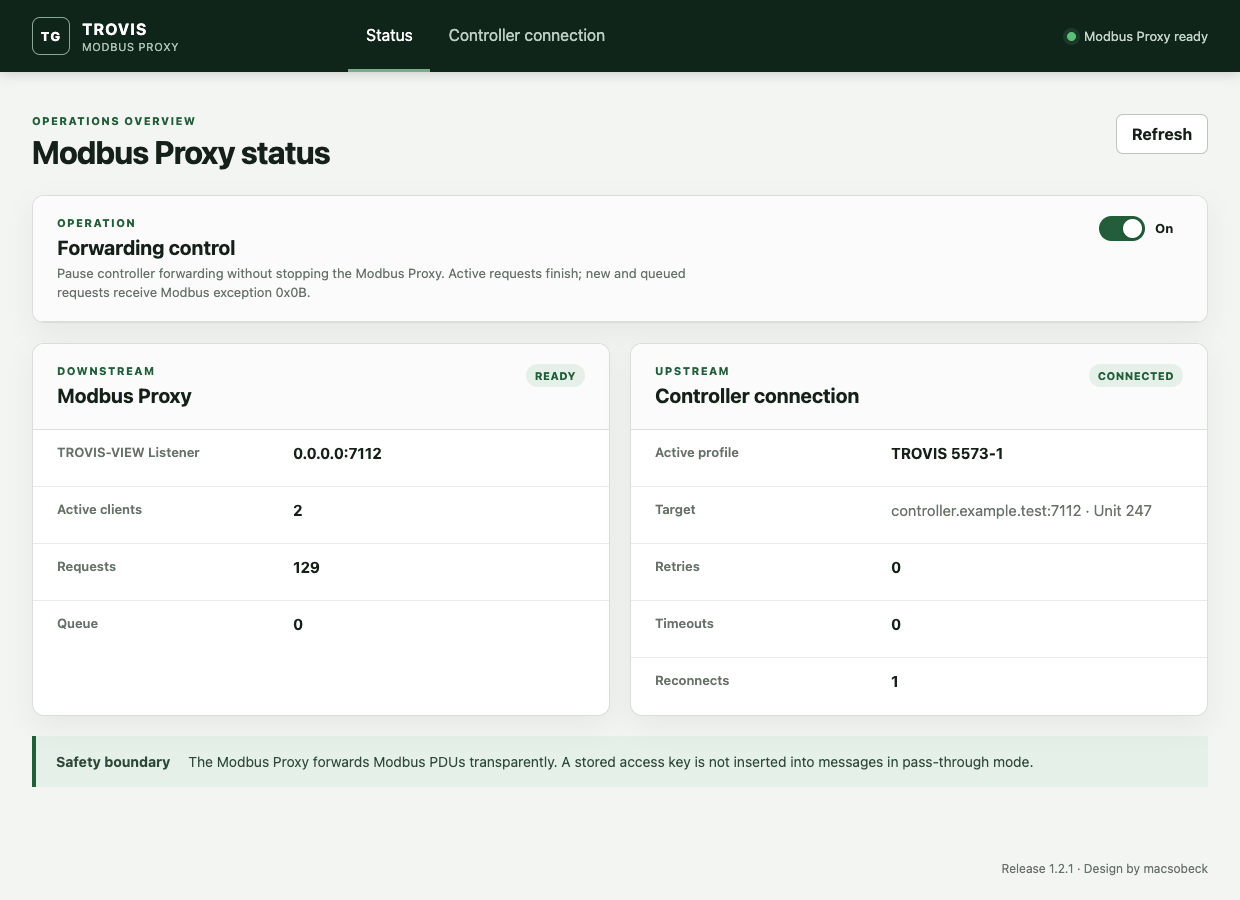
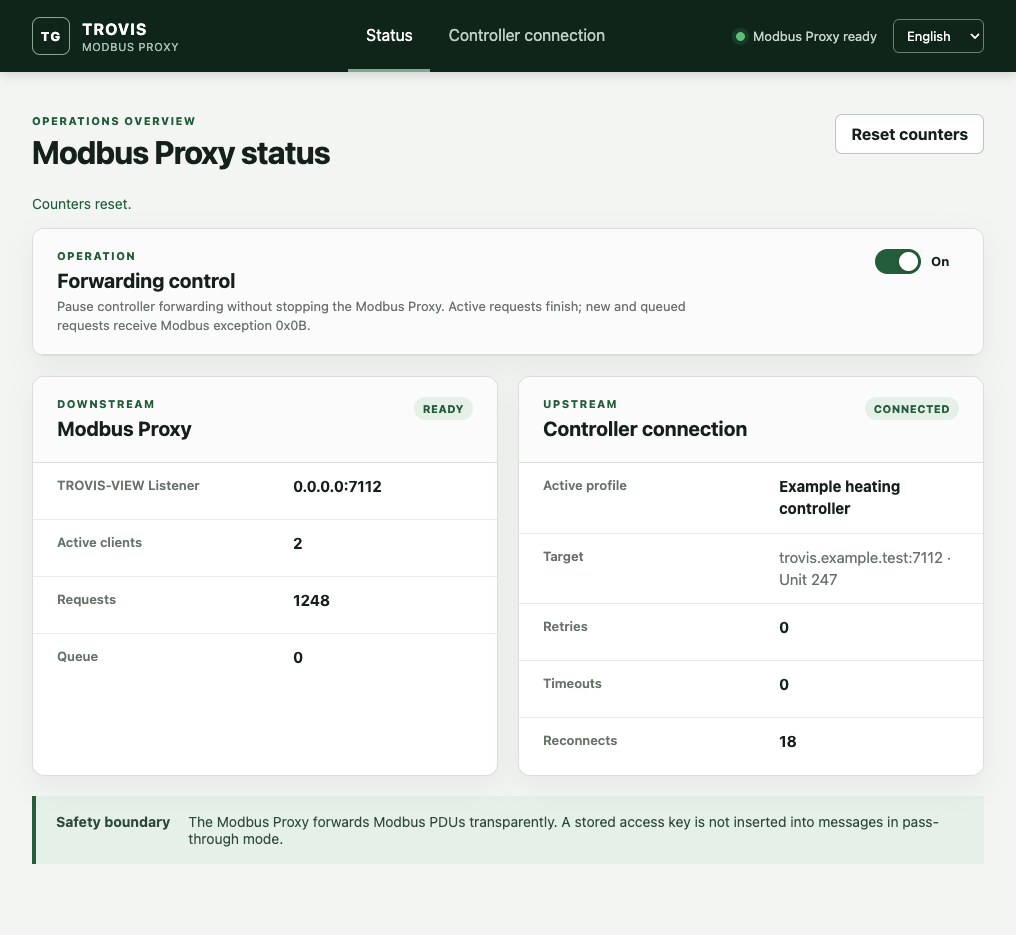
Finalize release 1.2.3

diff --git a/src/trovis_gateway/admin/static/styles.css b/src/trovis_gateway/admin/static/styles.css
@@ -1,4 +1,6 @@
 :root {
+  --topbar-height:72px;
+  scroll-padding-top:calc(var(--topbar-height) + 8px);
   --ink:#142018; --muted:#667168; --line:#d9ded9; --line-strong:#c7cec8;
   --paper:#fff; --wash:#f3f5f2; --green:#235d3a; --green-dark:#17462a;
   --green-soft:#e5f0e8; --amber:#a66517; --red:#a23b32;
@@ -10,7 +12,7 @@
 body { min-width:320px; min-height:100vh; margin:0; display:flex; flex-direction:column; }
 button,input,select,textarea { font:inherit; }
 button { cursor:pointer; }
-.topbar { height:72px; padding:0 32px; background:#10251a; color:#fff; display:flex; align-items:center; gap:36px; box-shadow:0 2px 12px rgba(0,0,0,.16); }
+.topbar { position:sticky; top:0; z-index:10; flex-shrink:0; height:var(--topbar-height); padding:0 32px; background:#10251a; color:#fff; display:flex; align-items:center; gap:36px; box-shadow:0 2px 12px rgba(0,0,0,.16); }
 .brand { display:flex; align-items:center; gap:12px; color:inherit; text-decoration:none; min-width:280px; }
 .brand-mark { width:38px; height:38px; display:grid; place-items:center; border:1px solid #88a893; border-radius:8px; font-size:13px; font-weight:800; letter-spacing:.08em; }
 .brand strong,.brand small { display:block; letter-spacing:.06em; }
@@ -71,7 +73,7 @@ h2 { margin:0; font-size:20px; }
 .notice strong { flex:none; }
 
 .profile-layout { display:grid; grid-template-columns:270px minmax(0,1fr); gap:20px; align-items:start; }
-.profile-list { padding:10px; min-height:180px; position:sticky; top:20px; }
+.profile-list { padding:10px; min-height:180px; position:sticky; top:calc(var(--topbar-height) + 20px); }
 .profile-item { width:100%; padding:14px; display:block; text-align:left; border:1px solid transparent; border-radius:8px; background:transparent; }
 .profile-item:hover,.profile-item.selected { background:#f1f5f2; border-color:#cedbd1; }
 .profile-item strong,.profile-item span { display:block; }
@@ -115,7 +117,8 @@ input:disabled { background:#eef1ee; color:#637068; }
   .timing-preset-row .parameter-label { padding-top:0; }
 }
 @media(max-width:900px) {
-  .topbar { height:auto; min-height:68px; flex-wrap:wrap; padding:14px 20px; gap:10px 22px; }
+  :root { scroll-padding-top:auto; }
+  .topbar { position:static; height:auto; min-height:68px; flex-wrap:wrap; padding:14px 20px; gap:10px 22px; }
   .brand { min-width:0; flex:1; }
   .topbar nav { order:3; width:100%; height:42px; }
   .nav-button { flex:1; }

diff --git a/src/trovis_gateway/admin/static/index.html b/src/trovis_gateway/admin/static/index.html
@@ -195,7 +195,7 @@
                     <option value="polling" selected data-i18n="withoutTrovisView">Multi-client without TROVIS-VIEW</option>
                     <option value="custom" data-i18n="custom">Custom</option>
                   </select>
-                  <small id="timing-preset-description" data-i18n="pollingHelp">For polling clients such as Home Assistant and Node-RED.</small>
+                  <small id="timing-preset-description" data-i18n="pollingHelp">For polling clients such as Home Assistant and Node-RED for instance.</small>
                 </div>
               </div>
               <div class="parameter-row"><label class="parameter-label" for="client-burst-idle" data-i18n="clientWindow">Client sequence idle window</label><div class="parameter-value input-with-unit"><input id="client-burst-idle" type="number" min="0" max="10" step="any" required><span>s</span><small data-i18n="clientWindowHelp">Enter a window in seconds. At 0, waiting clients take turns after each request.</small></div></div>

diff --git a/src/trovis_gateway/admin/static/i18n.js b/src/trovis_gateway/admin/static/i18n.js
@@ -103,7 +103,7 @@ const germanLabels = {
 };
 
 const messages = {
-  pollingHelp: ["For polling clients such as Home Assistant and Node-RED.", "Für zyklische Abfragen etwa aus Home Assistant und Node-RED."],
+  pollingHelp: ["For polling clients such as Home Assistant and Node-RED for instance.", "Für zyklische Abfragen etwa aus Home Assistant und Node-RED."],
   trovisViewHelp: ["Keeps TROVIS-VIEW readouts together while other clients poll.", "Hält TROVIS-VIEW-Auslesevorgänge zusammen, während andere Clients abfragen."],
   customHelp: ["Enter your own sequence window below.", "Gib unten ein eigenes Sequenzfenster ein."],
   keyConfigured: ["Access key configured", "Zugriffsschlüssel konfiguriert"],

diff --git a/docs/gateway/installation.de.md b/docs/gateway/installation.de.md
@@ -117,7 +117,7 @@ Der Health-Endpunkt sollte Folgendes zurückgeben:
 Wenn der Start fehlschlägt, prüfen Sie die Protokolle:
 
 ```bash
-docker compose logs --tail=100 gateway
+docker compose logs --tail=100 trovis-proxy
 ```
 
 ## 7. Administrationsoberfläche öffnen
@@ -203,7 +203,7 @@ um im laufenden Betrieb einen neuen Messzeitraum zu starten.
 Verfolgen Sie bei der Diagnose die laufenden Protokolle:
 
 ```bash
-docker compose logs -f gateway
+docker compose logs -f trovis-proxy
 ```
 
 Die aktuelle NAS-Compose-Konfiguration aktiviert mit `MODBUS_TRACE=1` die Aufzeichnung roher
@@ -223,7 +223,7 @@ dieses per Bind-Mount eingebundene Verzeichnis.
 Erstellen Sie nach der Konfiguration des Modbus Proxy eine Sicherung.
 
 ```bash
-docker compose exec -T gateway sh -c 'cat /data/config.json' > modbus-proxy-config-backup.json
+docker compose exec -T trovis-proxy sh -c 'cat /data/config.json' > modbus-proxy-config-backup.json
 chmod 600 modbus-proxy-config-backup.json
 ```
 
@@ -233,16 +233,18 @@ entsprechend.
 Stellen Sie eine Sicherung wie folgt wieder her:
 
 ```bash
-docker compose stop gateway
-docker compose run --rm --no-deps -T --entrypoint sh gateway \
+docker compose stop trovis-proxy
+docker compose run --rm --no-deps -T --entrypoint sh trovis-proxy \
   -c 'umask 077; cat > /data/config.json' < modbus-proxy-config-backup.json
 docker compose up -d
 ```
 
 ## 13. Installation aktualisieren
 
-Sichern Sie zuerst die Konfiguration. Aktualisieren Sie eine Standardinstallation auf das aktuelle
-Image mit:
+Sichern Sie zuerst die Konfiguration. Falls der Dienst in der bisherigen Compose-Datei
+`gateway` heißt, führen Sie vor der Aktualisierung mit dieser Datei `docker compose down` aus.
+So werden die Host-Ports für den umbenannten Dienst frei. Aktualisieren Sie anschließend
+die Standardinstallation auf das aktuelle Image:
 
 ```bash
 git pull --ff-only
@@ -255,7 +257,7 @@ Das per Bind-Mount eingebundene Verzeichnis `./data` bleibt mit dem Ersatzcontai
 
 ## 14. Serial RTU mit Docker
 
-Fügen Sie unter Linux innerhalb von `services.gateway` in `compose.yaml` Folgendes hinzu, um das
+Fügen Sie unter Linux innerhalb von `services.trovis-proxy` in `compose.yaml` Folgendes hinzu, um das
 serielle Gerät an den Container durchzureichen:
 
 ```yaml

diff --git a/docs/gateway/installation.md b/docs/gateway/installation.md
@@ -115,7 +115,7 @@ The health endpoint should return:
 If startup fails, inspect the logs:
 
 ```bash
-docker compose logs --tail=100 gateway
+docker compose logs --tail=100 trovis-proxy
 ```
 
 ## 7. Open the administration website
@@ -200,7 +200,7 @@ measurement period while the proxy is running.
 Follow live logs when diagnosing communication:
 
 ```bash
-docker compose logs -f gateway
+docker compose logs -f trovis-proxy
 ```
 
 The current NAS Compose configuration enables raw Modbus PDU tracing with
@@ -220,7 +220,7 @@ Profiles are stored in `./data/config.json` on the Docker host and mounted as
 Create a backup after configuring the Modbus Proxy.
 
 ```bash
-docker compose exec -T gateway sh -c 'cat /data/config.json' > modbus-proxy-config-backup.json
+docker compose exec -T trovis-proxy sh -c 'cat /data/config.json' > modbus-proxy-config-backup.json
 chmod 600 modbus-proxy-config-backup.json
 ```
 
@@ -229,15 +229,17 @@ The backup contains the stored access key in clear text. Protect it accordingly.
 Restore a backup with:
 
 ```bash
-docker compose stop gateway
-docker compose run --rm --no-deps -T --entrypoint sh gateway \
+docker compose stop trovis-proxy
+docker compose run --rm --no-deps -T --entrypoint sh trovis-proxy \
   -c 'umask 077; cat > /data/config.json' < modbus-proxy-config-backup.json
 docker compose up -d
 ```
 
 ## 13. Update the installation
 
-Back up the configuration first. Update the standard installation to the latest image with:
+Back up the configuration first. If the existing Compose file uses the service name
+`gateway`, run `docker compose down` with that file before updating. This frees the host
+ports for the renamed service. Update the standard installation to the latest image with:
 
 ```bash
 git pull --ff-only
@@ -251,7 +253,7 @@ The bind-mounted `./data` directory remains attached to the replacement containe
 ## 14. Serial RTU with Docker
 
 On Linux, pass the serial device into the service by adding this under
-`services.gateway` in `compose.yaml`:
+`services.trovis-proxy` in `compose.yaml`:
 
 ```yaml
 devices:

diff --git a/README.de.md b/README.de.md
@@ -114,15 +114,15 @@ weiteren Stärken entwickelt:
 
 ![Statusübersicht des TROVIS Modbus Proxy für Modbus-TCP-Clients und einen SAMSON-Regler](docs/images/gateway-status.png)
 
-*Statusübersicht für den Modbus-TCP-Listener und die aktive Verbindung zum Regler.*
+*Statusübersicht mit Weiterleitungssteuerung, rücksetzbaren Zählern und Sprachauswahl.*
 
 ### Reglerverbindung
 
-![RTU-over-TCP-Reglerprofil des TROVIS Modbus Proxy](docs/images/controller-connection.png)
+![Reglerprofil des TROVIS Modbus Proxy mit Timing-Voreinstellung und Client-Sequenzfenster](docs/images/controller-connection.png)
 
-*Reglerprofil aus v1.2.1 mit RTU-over-TCP, Ziel und Modbus Unit ID.*
+*Client-Steuerung mit der Voreinstellung für mehrere Clients ohne TROVIS-VIEW und den erweiterten Kommunikationseinstellungen.*
 
-*Private Netzwerkadressen sind in beiden Oberflächenbeispielen anonymisiert.*
+*Beide Screenshots verwenden ein Beispielprofil und einen Beispiel-Hostnamen.*
 
 ![USR-Adapter für transparenten RTU-over-TCP-Betrieb](docs/images/usr-adapter-settings.png)
 

diff --git a/README.md b/README.md
@@ -106,15 +106,15 @@ strengths:
 
 ![TROVIS Modbus Proxy status dashboard for Modbus TCP clients and a SAMSON controller](docs/images/gateway-status.png)
 
-*Status overview for the Modbus TCP listener and the active controller connection.*
+*Status overview with forwarding control, resettable counters, and the language selector.*
 
 ### Controller connection
 
-![TROVIS Modbus Proxy RTU-over-TCP controller profile](docs/images/controller-connection.png)
+![TROVIS Modbus Proxy controller profile showing the scheduling preset and client sequence window](docs/images/controller-connection.png)
 
-*Example controller profile from v1.2.1 showing RTU-over-TCP, the target, and Modbus unit ID.*
+*Client scheduling with the Multi-client without TROVIS-VIEW preset and advanced communication settings.*
 
-*Private network addresses are anonymized in both interface examples.*
+*Both screenshots use an example profile and host name.*
 
 ![USR adapter configured for transparent RTU-over-TCP operation](docs/images/usr-adapter-settings.png)
 

diff --git a/CHANGELOG.md b/CHANGELOG.md
@@ -22,6 +22,12 @@ semantic versioning.
   settings**.
 - New controller profiles start with 0.20 s. Existing configurations retain all stored timing
   values and use 0.80 s for an omitted sequence window.
+- Keep the administration header visible while scrolling on desktop displays. In the mobile
+  layout, the header scrolls with the page.
+- Use `trovis-proxy` as the Docker Compose service and container name. Run `docker compose down`
+  with the previous Compose file before switching to the new one.
+- Update the English and German README screenshots with the current status and timing interface
+  using example profile data.
 
 ## [1.2.2] - 2026-11-24
 
